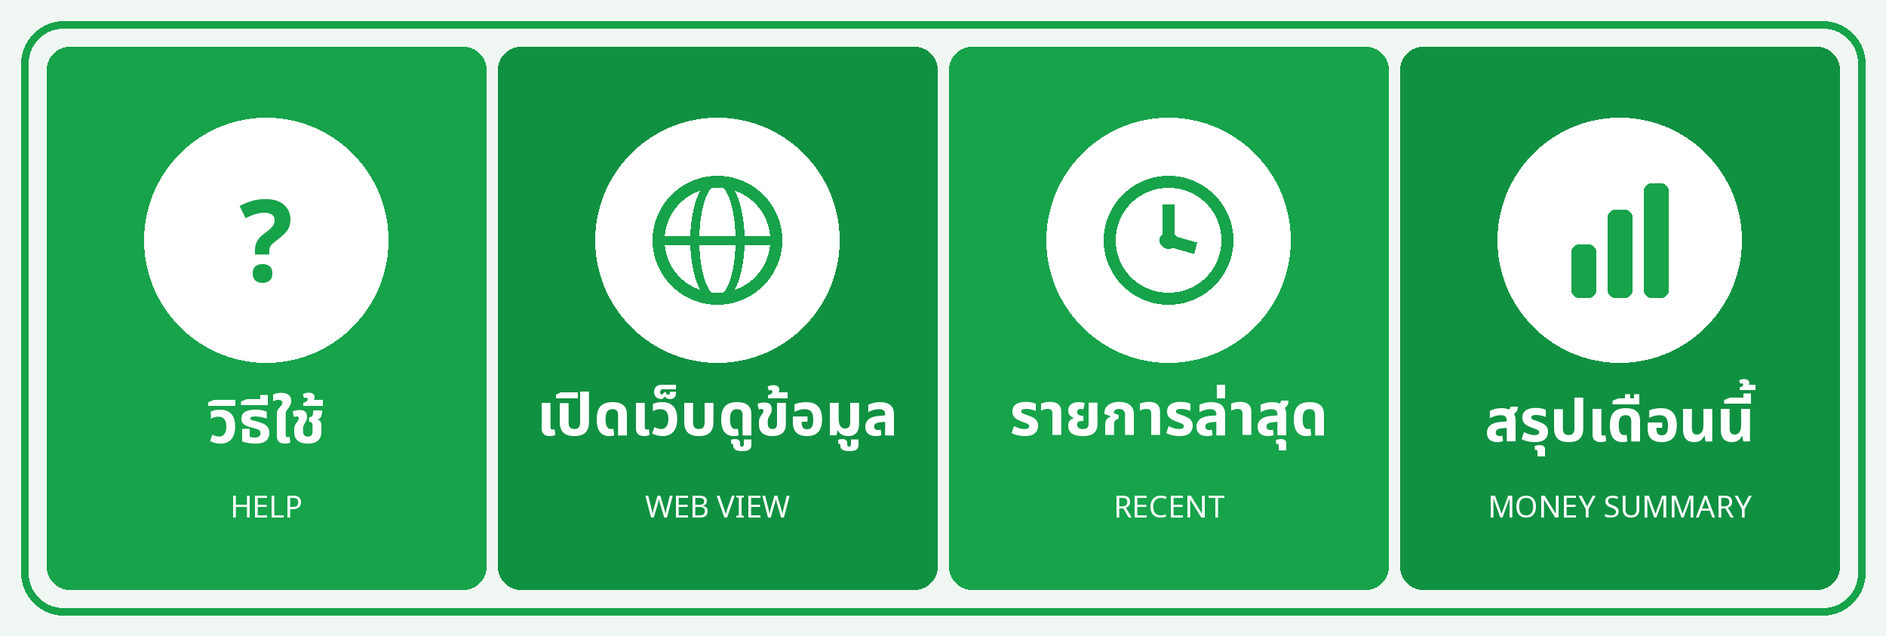
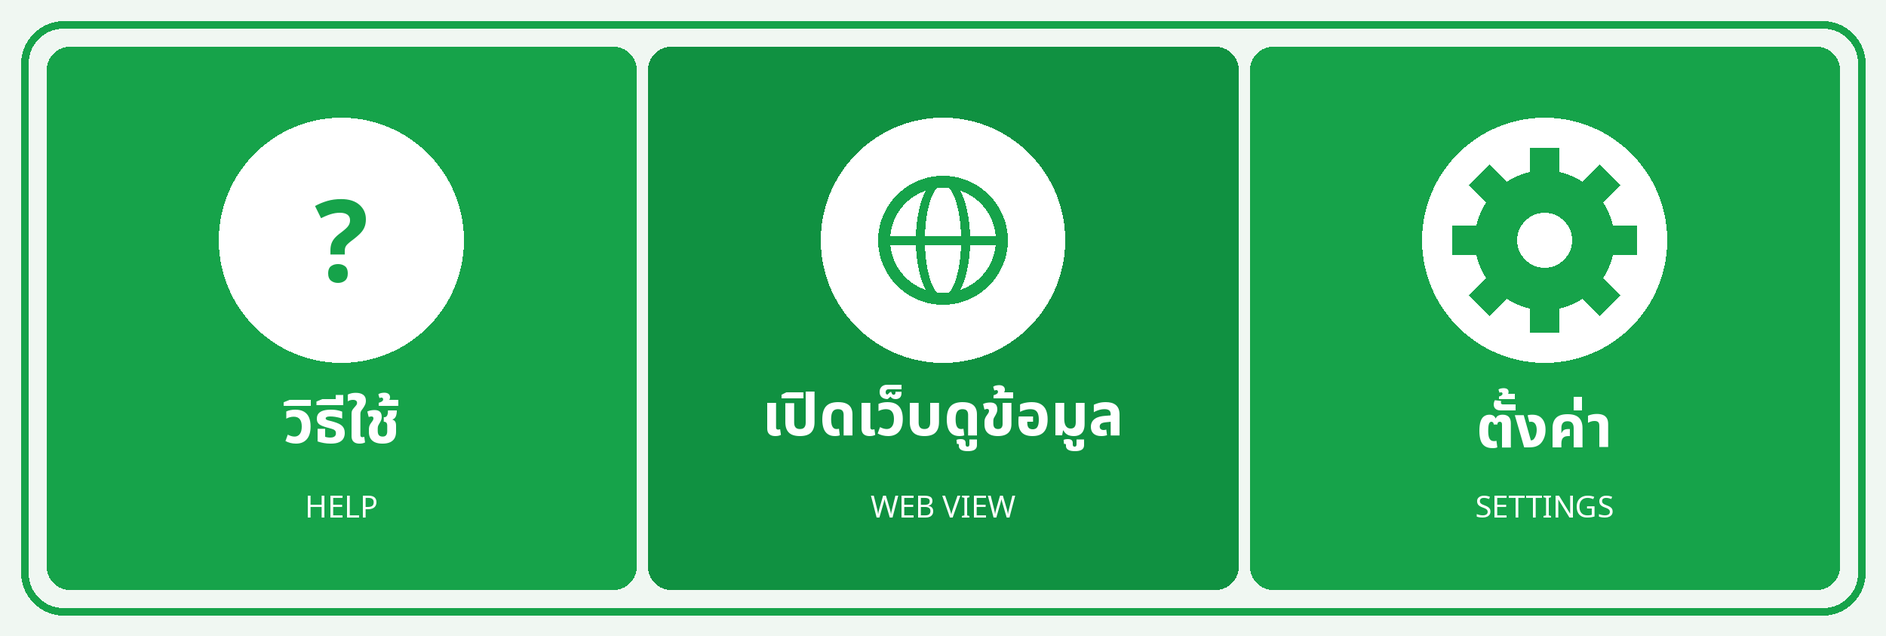
Rich menu down to three tiles: help, web viewer, settings (#72)
รายการล่าสุด and สรุปเดือนนี้ give up their slots. Neither got harder to
reach — both are still typed commands, and both are already on the page the
middle tile opens. The settings page was the opposite case: it holds the
bot's name, its character and the wipe, and had no way in but a URL you would
have to know existed first.

A rich menu tap just sends its text as an ordinary message, so a tile is
worthless unless the bot understands the word. The tile and the command are
one feature: viewCommands.ts gains matchSettingsLinkCommand and
buildSettingsLinkReply, minting the same one-hour signed link เปิดเว็บดูข้อมูล
does. The AI interpreter gains a settings_link intent too — the same trap as
17.49, since it is consulted before any matcher and would otherwise answer
that the bot can't do this.

Whole-phrase matching, not a substring. It doesn't collide with ตั้งงบ or
ตั้งจังหวัด as it stands, but exact matching is what keeps that true when
someone adds a ตั้งค่า-prefixed command later.

The image drops COLS from 4 to 3 and gains a gear icon drawn from plain
shapes like the others. 2500 doesn't divide by three, so the first column
takes the spare pixel: LINE requires the tap areas to tile the image exactly,
with no gap and no overlap.

The guide gets ⚙ ตั้งค่า as its own section rather than a bullet buried under
the web viewer — one of three things a tap can reach shouldn't be hidden
inside another feature's list — and its opening line now names the three
[…]

diff --git a/worker/src/commands.ts b/worker/src/commands.ts
@@ -245,12 +245,28 @@ export function buildHelpText(webSearchEnabled: boolean): string {
     // is visible to whoever's in the group, not just whoever asked for it.
     "• เปิดเว็บดูข้อมูล — ขอลิงก์ดูบัญชี/ปฏิทิน/ไดอารี่/รูปทริป/ตารางเวร/สิ่งที่ต้องทำ ในหน้าเดียว (ใช้ได้ 1 ชั่วโมง หมดอายุแล้วพิมพ์ใหม่ได้เลย) — กลุ่มขอลิงก์ของสมุดกลุ่มเองได้เหมือนกัน",
     "• แท็บ \"ไดอารี่\" แก้ไข/ลบบันทึกเก่าได้ตรงนั้นเลย",
-    "• แท็บ \"ตั้งค่า\" — ตั้งชื่อบอท คาแรคเตอร์ ชื่อที่อยากให้บอทเรียกเรา จังหวัดพยากรณ์อากาศ และล้างรายรับ-รายจ่ายเพื่อเริ่มใหม่ (ต้องยืนยันด้วยรหัสที่ส่งไปทางอีเมลก่อน)",
+    "",
+    "⚙ ตั้งค่า",
+    // Its own section rather than a bullet under the web viewer since
+    // PLAN.md 17.50 — it has a rich-menu tile of its own now, and one of the
+    // three things a tap can reach shouldn't be buried inside another
+    // feature's list.
+    "• ตั้งค่า — ขอลิงก์หน้าตั้งค่า: ชื่อบอท, คาแรคเตอร์ (น้ำเสียงที่ใช้ตอบ), ชื่อที่อยากให้บอทเรียกเรา, จังหวัดพยากรณ์อากาศ",
+    "• ตั้งคนละแบบได้ทุกคน ใครเชื่อมบัญชีก็มีบอทเป็นของตัวเอง (ในกลุ่มใช้ค่าเดียวกันทั้งกลุ่ม)",
+    "• ล้างรายรับ-รายจ่ายเพื่อเริ่มใหม่ก็อยู่หน้านี้ — ต้องใส่รหัสที่ส่งไปทางอีเมลของบัญชี Google ที่เป็นเจ้าของสมุดก่อน และลบเฉพาะเงิน ไม่แตะไดอารี่/งบ/ปฏิทิน/รูปทริป",
     "",
     "❓ ไม่แน่ใจว่าถามอะไรได้",
     "• พิมพ์ \"ทำอะไรได้บ้าง\" ได้ลิสต์สั้นๆ ว่าฉันช่วยอะไรได้บ้าง",
   ];
-  return ["ฉันช่วยได้ 13 เรื่อง — พิมพ์คำสั่งด้านล่าง หรือแตะเมนูใต้ช่องพิมพ์ก็ได้:", "", ...sections].join("\n");
+  // The menu holds three of these now (วิธีใช้ / เปิดเว็บดูข้อมูล / ตั้งค่า),
+  // so it's worth saying what a tap actually reaches rather than just that
+  // a menu exists (PLAN.md 17.50).
+  return [
+    "ฉันช่วยได้ 14 เรื่อง — พิมพ์คำสั่งด้านล่างได้เลย",
+    "(เมนูใต้ช่องพิมพ์มี 3 ปุ่ม: วิธีใช้ / เปิดเว็บดูข้อมูล / ตั้งค่า)",
+    "",
+    ...sections,
+  ].join("\n");
 }
 
 const COMMANDS: Array<{ test: (text: string) => boolean; handle: Handler }> = [

diff --git a/worker/src/aiInterpreter.ts b/worker/src/aiInterpreter.ts
@@ -87,6 +87,7 @@ export type InterpretedIntent =
   | { intent: "help" }
   | { intent: "capabilities" }
   | { intent: "report" }
+  | { intent: "settings_link" }
   | { intent: "view_link" }
   | { intent: "chitchat"; reply: string }
   | { intent: "unclear"; reply: string };
@@ -335,6 +336,8 @@ export function validateIntent(raw: unknown): InterpretedIntent | null {
       return { intent: "capabilities" };
     case "report":
       return { intent: "report" };
+    case "settings_link":
+      return { intent: "settings_link" };
     case "view_link":
       return { intent: "view_link" };
     case "chitchat": {
@@ -428,6 +431,9 @@ function buildSystemInstruction(today: string, history: ConversationTurn[], sett
     // lumping them together meant "ทำอะไรได้บ้าง" got a link to a guide long
     // enough to need its own web page.
     '{"intent":"capabilities"} — ถามว่า**ทำอะไรได้บ้าง**/ช่วยอะไรได้บ้าง อยากรู้ความสามารถคร่าวๆ ไม่ได้ถามวิธีพิมพ์',
+    // Its own intent rather than a flavour of view_link (PLAN.md 17.50):
+    // they are different pages, and this one can wipe the book's money.
+    '{"intent":"settings_link"} — ขอตั้งค่าบอท: เปลี่ยนชื่อบอท/คาแรคเตอร์/ชื่อที่ให้เรียกผู้ใช้/จังหวัด หรือขอล้างข้อมูลรายรับ-รายจ่ายเริ่มใหม่ (เช่น "ตั้งค่า", "เปลี่ยนชื่อบอท", "อยากเปลี่ยนคาแรคเตอร์", "ล้างข้อมูลทั้งหมด") — มีหน้าตั้งค่าจริง อย่าตอบว่าทำไม่ได้',
     '{"intent":"view_link"} — ขอลิงก์เปิดดูข้อมูล/บัญชี/ปฏิทิน/ไดอารี่/รูปทริปผ่านเว็บเบราว์เซอร์ (เช่น "เปิดเว็บ", "ขอลิงก์เว็บ", "ดูเว็บไซต์หน่อย", "เปิดดูเว็บข้อมูล") — มีฟีเจอร์นี้จริง อย่าตอบว่าทำไม่ได้',
     '{"intent":"chitchat","reply":string} — พูดคุยทั่วไปที่ไม่ใช่คำสั่งอะไร (ทักทาย ชม คุยเล่น) ให้ตอบกลับตามธรรมชาติสั้นๆใน reply',
     '{"intent":"unclear","reply":string} — ข้อมูลสำคัญไม่ครบจะตัดสินใจ (เช่น มีจำนวนเงินแต่ไม่รู้ว่าซื้ออะไร, บอกจะนัดแต่ไม่มีวันที่/เวลา) ให้ reply เป็นคำถามกลับไปถามข้อมูลที่ขาดเท่านั้น',

diff --git a/worker/src/viewCommands.ts b/worker/src/viewCommands.ts
@@ -17,6 +17,34 @@ export function matchViewLinkCommand(text: string): boolean {
   return text.trim() === VIEW_LINK_TRIGGER;
 }
 
+// A direct link to the settings page (PLAN.md 17.50), so the rich menu can
+// hold a tile for it — a tap just sends this text as an ordinary message,
+// so the tile needs a phrase the bot actually understands.
+//
+// Whole phrases, not a substring test, for the reason this codebase keeps
+// relearning: "ตั้งค่า" would otherwise sit inside plenty of ordinary
+// sentences. It does *not* collide with the "ตั้งงบ"/"ตั้งจังหวัด" prefixes
+// either way, but exact matching is what keeps that true if someone adds a
+// "ตั้งค่าเริ่มต้น..." command later.
+const SETTINGS_LINK_TRIGGERS = ["ตั้งค่า", "การตั้งค่า", "ตั้งค่าบอท", "settings"];
+
+export function matchSettingsLinkCommand(text: string): boolean {
+  return SETTINGS_LINK_TRIGGERS.includes(text.trim().toLowerCase());
+}
+
+export async function buildSettingsLinkReply(env: Env, subjectId: string, origin: string): Promise<string> {
+  const token = await signViewToken(subjectId, env.STATE_SIGNING_SECRET);
+  const isGroup = groupIdFromSubject(subjectId) !== null;
+  // Same one-hour token as the viewer link above, and the same difference in
+  // wording between a 1:1 chat and a group — but here it carries a warning
+  // the read-only pages don't need: this page can wipe the book's money, and
+  // in a group everyone can see the link.
+  const intro = isGroup
+    ? "เปิดลิงก์นี้เพื่อตั้งค่าบอทของกลุ่ม — ชื่อบอท คาแรคเตอร์ จังหวัด และล้างข้อมูลรายรับ-รายจ่าย (ใครในกลุ่มก็เปิดได้ ลิงก์ใช้ได้ 1 ชั่วโมง):"
+    : "เปิดลิงก์นี้เพื่อตั้งค่าบอท — ชื่อบอท คาแรคเตอร์ ชื่อที่อยากให้เรียก จังหวัด และล้างข้อมูลรายรับ-รายจ่าย (ลิงก์ใช้ได้ 1 ชั่วโมง):";
+  return [intro, `${origin}/view/settings?token=${token}`].join("\n");
+}
+
 export async function buildViewLinkReply(env: Env, subjectId: string, origin: string): Promise<string> {
   const token = await signViewToken(subjectId, env.STATE_SIGNING_SECRET);
   // Wording differs by mode: personal mode's reply lands in a 1:1 chat,

diff --git a/worker/src/index.ts b/worker/src/index.ts
@@ -95,7 +95,7 @@ import { renderErrorPage } from "./viewAuth.ts";
 import { handleViewBudgetsRequest } from "./viewBudgetsPage.ts";
 import { handleViewSettingsRequest } from "./viewSettingsPage.ts";
 import { handleViewCalendarRequest } from "./viewCalendarPage.ts";
-import { buildViewLinkReply, matchViewLinkCommand } from "./viewCommands.ts";
+import { buildSettingsLinkReply, buildViewLinkReply, matchSettingsLinkCommand, matchViewLinkCommand } from "./viewCommands.ts";
 import { handleViewDiaryRequest } from "./viewDiaryPage.ts";
 import { handleViewHelpRequest } from "./viewHelpPage.ts";
 import { handleViewSearchRequest } from "./viewSearchPage.ts";
@@ -588,6 +588,8 @@ async function runInterpretedIntent(
         return buildCapabilityText();
       case "view_link":
         return await buildViewLinkReply(env, subjectId, origin);
+      case "settings_link":
+        return await buildSettingsLinkReply(env, subjectId, origin);
       case "chitchat":
       case "unclear":
         return intent.reply;
@@ -773,6 +775,12 @@ async function dispatchLegacyCommands(
     // token only needs STATE_SIGNING_SECRET, no Google auth at all.
     if (matchViewLinkCommand(text)) {
       return await buildViewLinkReply(env, subjectId, origin);
+    }
+
+    // Same shape, and for the same reason: minting a link needs only
+    // STATE_SIGNING_SECRET, no Google auth (PLAN.md 17.50).
+    if (matchSettingsLinkCommand(text)) {
+      return await buildSettingsLinkReply(env, subjectId, origin);
     }
 
     // Before matchCommand's report handler for two reasons: its

diff --git a/worker/assets/generate-rich-menu.py b/worker/assets/generate-rich-menu.py
@@ -25,18 +25,14 @@ from PIL import Image, ImageDraw, ImageFont
 HERE = Path(__file__).parent
 FONT_DIR = HERE / "fonts"
 
-# LINE rich menu images must be one of a few fixed sizes. Used to be the
-# "full" 2500x1686 size with a 4x2 grid (8 tappable tiles, grew from an
-# original 3x2 grid, then to a 4x1 read-only-command set once the AI Q&A
-# and web-viewer features gave every slot an actual command to hold) —
-# pared back down to just the 4 tiles asked for (help, web viewer, recent
-# transactions, month summary), so this switched to the "compact" 2500x843
-# size instead of leaving 4 tappable tiles plus 4 empty ones in a half-used
-# full-size grid. Tile dimensions (625x843) are unchanged from before —
-# only ROWS dropped from 2 to 1, so every per-tile layout/icon-drawing
-# calculation below still applies as-is.
+# LINE rich menu images must be one of a few fixed sizes. This is the
+# "compact" 2500x843, down from the "full" 2500x1686 it used when the grid
+# held eight tiles. Three columns as of PLAN.md 17.50 (help, web viewer,
+# settings), down from four — every per-tile layout and icon calculation
+# below is expressed as a fraction of its own tile, so changing COLS is the
+# only edit a different tile count needs.
 WIDTH, HEIGHT = 2500, 843
-COLS, ROWS = 4, 1
+COLS, ROWS = 3, 1
 
 PAGE_BG = (240, 247, 242)  # soft off-white, faint green tint
 FRAME_BORDER = (22, 163, 74)  # same green as the tiles
@@ -136,6 +132,28 @@ def icon_sparkle(draw, cx, cy, r, color):
     draw.polygon(pts, fill=color)
 
 
+def icon_gear(draw, cx, cy, r, stroke, color):
+    # Eight teeth around a ring, then a hole punched in the middle by
+    # redrawing the tile colour — simpler and cleaner than trying to stroke
+    # an annulus, and the badge underneath is always a flat white circle.
+    outer = r * 1.05
+    tooth_w = r * 0.34
+    tooth_h = r * 0.38
+    for i in range(8):
+        angle = math.pi / 4 * i
+        tx, ty = cx + outer * math.cos(angle), cy + outer * math.sin(angle)
+        pts = []
+        for dx, dy in ((-tooth_w / 2, -tooth_h / 2), (tooth_w / 2, -tooth_h / 2), (tooth_w / 2, tooth_h / 2), (-tooth_w / 2, tooth_h / 2)):
+            px = tx + dx * math.cos(angle) - dy * math.sin(angle)
+            py = ty + dx * math.sin(angle) + dy * math.cos(angle)
+            pts.append((px, py))
+        draw.polygon(pts, fill=color)
+    body = r * 0.92
+    draw.ellipse([cx - body, cy - body, cx + body, cy + body], fill=color)
+    hole = r * 0.36
+    draw.ellipse([cx - hole, cy - hole, cx + hole, cy + hole], fill=(255, 255, 255))
+
+
 def icon_globe(draw, cx, cy, r, stroke, color):
     rad = r * 0.85
     draw.ellipse([cx - rad, cy - rad, cx + rad, cy + rad], outline=color, width=stroke)
@@ -145,15 +163,16 @@ def icon_globe(draw, cx, cy, r, stroke, color):
     draw.line([cx - rad, cy, cx + rad, cy], fill=color, width=max(2, stroke - 4))
 
 
-# Pared down from 8 tiles to just these 4 (user request) — trip status,
-# today's calendar, this month's diary, and AI analysis all still work fine
-# as typed commands or via the "วิธีใช้" reference, they just don't get a
-# dedicated tap-target anymore.
+# Three tiles (PLAN.md 17.50). "รายการล่าสุด" and "สรุปเดือนนี้" were here
+# and gave up their slots to settings: both are still typed commands and
+# both are already on the page the web-viewer tile opens, so neither became
+# harder to reach — while the settings page holds the bot's name, its
+# character and the wipe, and had no way in but typing a URL you'd have to
+# know about first.
 BUTTONS = [
     {"title": "วิธีใช้", "sub": "HELP", "icon": "help"},
     {"title": "เปิดเว็บดูข้อมูล", "sub": "WEB VIEW", "icon": "globe"},
-    {"title": "รายการล่าสุด", "sub": "RECENT", "icon": "clock"},
-    {"title": "สรุปเดือนนี้", "sub": "MONEY SUMMARY", "icon": "money"},
+    {"title": "ตั้งค่า", "sub": "SETTINGS", "icon": "gear"},
 ]
 
 
@@ -183,6 +202,8 @@ def draw_icon(draw, kind, cx, cy, r, help_font):
         icon_sparkle(draw, cx, cy, r, color)
     elif kind == "globe":
         icon_globe(draw, cx, cy, r, ICON_STROKE, color)
+    elif kind == "gear":
+        icon_gear(draw, cx, cy, r, ICON_STROKE, color)
 
 
 def main():

diff --git a/PLAN.md b/PLAN.md
@@ -2672,3 +2672,41 @@ AI ไม่รู้จักว่าเป็น "คำสั่งของ
 คำตอบเหมือนกันเป๊ะ, สำนวนที่ matcher ไม่รู้จักยังได้คำตอบ, หน้าเว็บแสดงครบทั้ง 9 แถวของเดือน, หัวข้อเปลี่ยนแล้ว —
 mutation check 2 รอบ: ให้ `report` ตอบ free-form แทนการ route → แดง 2, ใส่ cap กลับเข้าหน้าเว็บ → แดง 1 —
 รวม **539 ผ่าน 0 ล้มเหลว**
+
+### 17.50 Rich menu เหลือ 3 ปุ่ม — เอา "รายการล่าสุด"/"สรุปเดือนนี้" ออก ใส่ "ตั้งค่า" แทน
+
+**คำสั่งจากผู้ใช้**: เอา รายการล่าสุด กับ สรุปเดือนนี้ ออก ใส่ ตั้งค่า แทน ให้เหลือ 3 ช่อง และอัปเดตวิธีใช้ด้วย
+
+**สองปุ่มที่ถอดออกไม่ได้หายไปไหน** — ยังพิมพ์เป็นคำสั่งได้เหมือนเดิม และทั้งคู่**อยู่บนหน้าเว็บที่ปุ่มกลาง
+เปิดให้อยู่แล้ว** (สรุปยอด + รายการทั้งเดือน) เลยไม่มีอะไรเข้าถึงยากขึ้น ส่วนหน้าตั้งค่า (17.48) ตรงกันข้าม:
+มันเก็บชื่อบอท คาแรคเตอร์ และปุ่มล้างข้อมูล **แต่ไม่มีทางเข้าเลยนอกจากพิมพ์ URL ที่ต้องรู้มาก่อนว่ามีอยู่**
+
+**ปุ่มกับคำสั่งเป็นฟีเจอร์เดียวกัน ไม่ใช่สองอย่าง** — การแตะ rich menu คือการส่งข้อความธรรมดา ปุ่มจึงไร้ค่า
+ถ้าบอทไม่รู้จักคำนั้น เลยต้องเพิ่ม `matchSettingsLinkCommand` + `buildSettingsLinkReply` ใน `viewCommands.ts`
+(ลิงก์เซ็น HMAC อายุ 1 ชั่วโมง แบบเดียวกับ `เปิดเว็บดูข้อมูล`) **และเพิ่ม intent `settings_link` ให้ AI
+interpreter ด้วย** — กับดักตัวเดียวกับ 17.49 เป๊ะ: interpreter ถูกถามก่อน matcher เสมอ ถ้าไม่มี intent
+มันจะตีความเป็น chitchat แล้วตอบเองว่า "ทำไม่ได้"
+
+- **จับวลีเต็ม ไม่ใช่ substring** — ไม่ชนกับ `ตั้งงบ`/`ตั้งจังหวัด` อยู่แล้วทั้งคู่ แต่จับแบบตรงตัวคือสิ่งที่
+  ทำให้ยังไม่ชนต่อไปถ้าวันหน้ามีใครเพิ่มคำสั่งที่ขึ้นต้นด้วย "ตั้งค่า..." (บทเรียนเดิม 4 ครั้ง)
+- **ข้อความลิงก์ในกลุ่มเตือนต่างจากหน้า read-only** — หน้านี้ล้างเงินของสมุดได้ และในกลุ่มทุกคนเห็นลิงก์
+
+**รูปภาพ**: `COLS` 4 → 3 (ทุกการคำนวณ layout/ไอคอนเขียนเป็นสัดส่วนของ tile ตัวเองอยู่แล้ว เปลี่ยนค่าเดียวจบ)
+เพิ่มไอคอนเฟือง วาดด้วยรูปทรงพื้นฐานเหมือนไอคอนอื่นในไฟล์ (ไม่มี icon library ในสภาพแวดล้อมนี้) —
+**2500 หารสามไม่ลงตัว** ช่องแรกจึงกินพิกเซลเศษไป (834/833/833) เพราะ LINE บังคับว่า tap area ต้องปูเต็มภาพ
+พอดี ห้ามเหลื่อมและห้ามมีช่องว่าง
+
+**อัปเดตวิธีใช้**: แยก "⚙ ตั้งค่า" เป็นหัวข้อของตัวเอง (เดิมเป็นบูลเล็ตซ่อนอยู่ใต้หัวข้อเว็บ — หนึ่งในสามสิ่ง
+ที่แตะถึงได้ไม่ควรถูกฝังอยู่ในลิสต์ของฟีเจอร์อื่น) บอกด้วยว่า**ตั้งคนละแบบได้ทุกคน** และบรรทัดบนสุดเปลี่ยนจาก
+"แตะเมนูใต้ช่องพิมพ์ก็ได้" เป็นบอกไปเลยว่าเมนูมีปุ่มอะไรบ้าง
+
+**ทดสอบ** (+13): `"ตั้งค่า"` คืนลิงก์เซ็นแล้วและ**ลิงก์นั้นเปิดหน้าได้จริง** (status 200 ไม่ใช่แค่หน้าตาเหมือนลิงก์),
+บอกว่าหน้านั้นทำอะไรได้รวมถึงล้างข้อมูล, intent ของ AI ถึงหน้าเดียวกัน, `"ตั้งงบ"`/`"ตั้งจังหวัด"` ไม่ถูกกลืน,
+วิธีใช้พูดถึงเมนู 3 ปุ่มและมีหัวข้อตั้งค่า, **ตรวจไฟล์ `setup-rich-menu.mjs` เองว่ามี 3 คำสั่งตรงตามที่ตั้งใจ
+และ tap area ปูเต็ม 2500px พอดีไม่เหลื่อมไม่มีช่องว่าง**, และ**วนส่งข้อความของทุกปุ่มเข้าบอทจริงเพื่อยืนยันว่า
+ทุกปุ่มส่งคำสั่งที่บอทเข้าใจ** (ปุ่มที่ส่งคำที่บอทไม่รู้จักคือปุ่มเสีย และมองไม่เห็นจากโค้ดฝั่ง Worker เลย) —
+mutation check 4 รอบ: ตัด dispatch ของ `ตั้งค่า` → แดง 2, ทำ tap area เหลื่อม → แดง 1, เปลี่ยนข้อความปุ่มเป็น
+คำที่บอทไม่รู้จัก → แดง 1, ปล่อยวิธีใช้ค้างของเก่า → แดง 1 — รวม **552 ผ่าน 0 ล้มเหลว**
+
+**ต้องรัน workflow เอง**: แก้ PNG ในรีโปไม่ได้ push อะไรไปที่ LINE — ต้องไป Actions → **"One-time - Set up
+LINE Rich Menu"** → Run workflow ถึงจะเห็นเมนูใหม่

diff --git a/worker/README.md b/worker/README.md
@@ -203,14 +203,17 @@ understands, nothing new to build on the LINE side.
 3. Re-run the same workflow any time you change `worker/assets/rich-menu.png` — it deletes
    the previous menu of the same name first, so it's safe to run repeatedly.
 
-A compact 4x1 grid (single row, LINE's "compact" rich menu size): วิธีใช้ (help), เปิดเว็บดูข้อมูล
-(web viewer link, PLAN.md 16), รายการล่าสุด (recent transactions), สรุปเดือนนี้ (money summary) —
-pared down from an earlier full-size 4x2/8-tile grid that also had ทริปตอนนี้, มีนัดอะไรวันนี้,
-ไดอารี่เดือนนี้มีอะไรบ้าง, and วิเคราะห์ on it; those four still work fine as typed commands (see
-`วิธีใช้` for the full list), they just don't get their own tap-target anymore. All 4 remaining
-buttons are read/status commands on purpose — commands that need more input from you
-(`เริ่มทริป <ชื่อ>`, `นัด <เรื่อง> ...`, `ไดอารี่ <ข้อความ>`, `ถาม <คำถาม>`) can't be a single tap, so
-those stay as typed commands regardless.
+Three tiles in a single row (LINE's "compact" rich menu size): วิธีใช้ (help), เปิดเว็บดูข้อมูล
+(web viewer link, PLAN.md 16), and ตั้งค่า (settings page, PLAN.md 17.48). It has been as large
+as a full-size 4x2 grid; รายการล่าสุด and สรุปเดือนนี้ held the last two slots until 17.50 and gave
+them up to settings — both are still typed commands and both are on the page the web-viewer tile
+opens, so neither got harder to reach, while the settings page had no way in but a URL you would
+have to know about first.
+
+Every tile is a command that needs no further input, because a rich menu tap just sends its text
+as an ordinary message. Anything that takes an argument (`เริ่มทริป <ชื่อ>`, `นัด <เรื่อง> ...`,
+`ไดอารี่ <ข้อความ>`, `ถาม <คำถาม>`) can't be a single tap and stays typed. `ตั้งค่า` works as a
+typed command too, for the same reason the tile needs it to.
 
 ### 8. (optional) Allow the bot to join group chats
 
